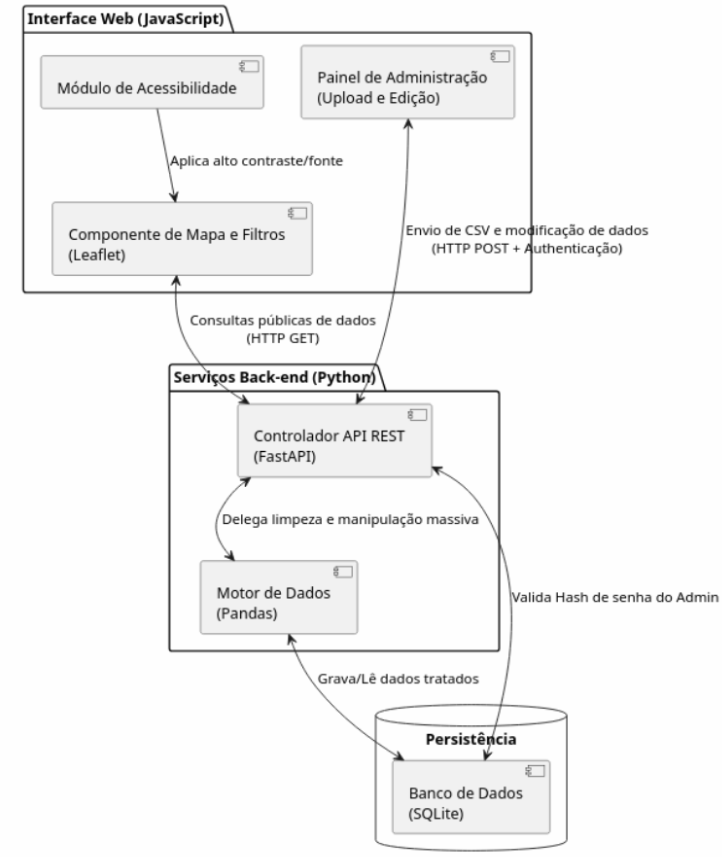
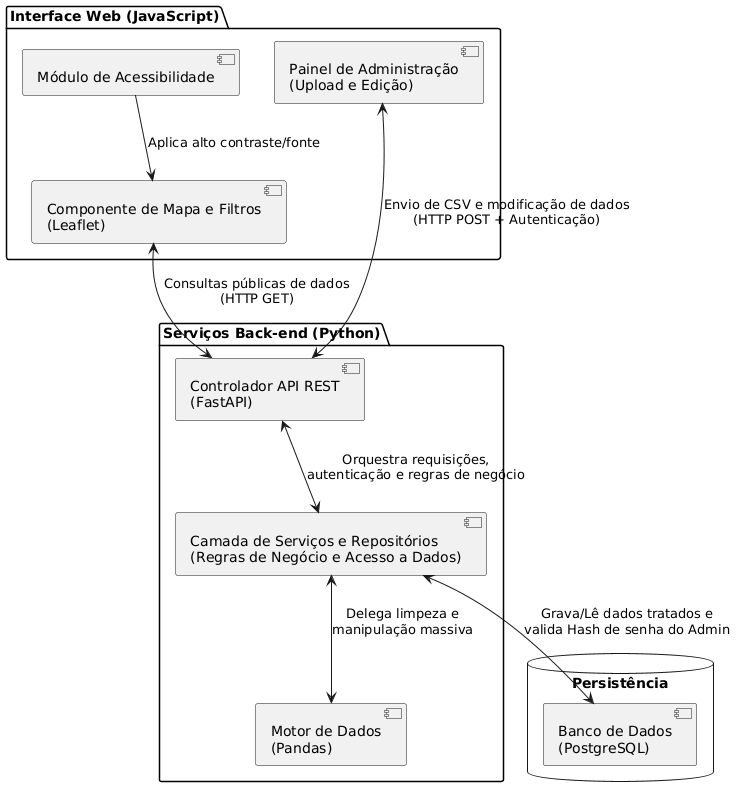
docs: atualizar markdown do documento de arquitetura (mudança de banco de dados).

Changed region(s): [[0.0, 0.0, 1.0, 1.0], [0.3352, 0.8696, 0.3657, 0.9006]]

diff --git a/docs/documentos/arquitetura/visoes.md b/docs/documentos/arquitetura/visoes.md
@@ -26,7 +26,7 @@ Esse fluxo operacional é detalhado na **Figura 3**, que apresenta o diagrama de
 
 **Figura 3 — Diagrama de Atividades: Painel do Administrador**
 
-<img src="../assets/atividades.png" alt="Diagrama de Atividades" style="max-width: 16cm; width: 100%; border: 1px solid #ddd; border-radius: 4px;" />
+![Diagrama de Atividades](assets/atividades.png)
 
 *Fonte: Elaborado por Fabiana Reis (2026).*
 
@@ -62,38 +62,43 @@ A **Tabela 4** sintetiza as responsabilidades e a camada de cada módulo na arqu
 
 #### `src/frontend` — JavaScript e Leaflet
 
-Concentra a interface gráfica manipulada pelo usuário. Organiza o código separando as páginas (`pages/`), os componentes reutilizáveis de mapa e filtros (`components/`), os recursos de acessibilidade de fonte e alto contraste (`accessibility/`), o cliente HTTP de envio de requisições (`api_client/`) e os estilos e recursos estáticos (`assets/`). Dessa forma, a interface pode evoluir esteticamente sem impactar as regras da aplicação.
+Concentra a camada de apresentação e todos os elementos de interface com os quais o usuário interage diretamente. Organiza as páginas HTML na raiz, separando-as das folhas de estilo (`css/`), dos scripts de comportamento e comunicação com a API (`js/`) e dos recursos gráficos e geográficos em (`assets/`). Dessa forma, a interface pode evoluir sem afetar as regras de negócio.
 
 #### `src/api` — FastAPI
 
-Constitui o ponto de entrada do Back-end, recebendo as requisições HTTP do cliente e devolvendo respostas estruturadas. Cada rota atende a uma responsabilidade específica: consulta de indicadores (`indicators.py`), upload de arquivos pelo administrador (`admin.py`) e autenticação (`auth.py`). Os esquemas do Pydantic em `schemas/` formalizam os contratos de dados na borda do sistema, assegurando que apenas requisições válidas atinjam a lógica interna.
+É a fronteira do back-end: recebe as requisições do navegador e devolve as respostas. Cada rota tem uma responsabilidade: consultas de indicadores , upload de CSV pela administração e login. O módulo `schemas.py` define os contratos de entrada e saída, de modo que a validação do formato fica na borda do sistema e a lógica interna não depende dela.
 
 #### `src/services`
 
-Posiciona-se como camada intermediária entre as rotas HTTP e o tratamento de dados. O módulo `indicators.py` coordena as consultas e os filtros temáticos, enquanto `updates.py` gerencia o fluxo de atualização da base de dados. Com isso, os endpoints HTTP atuam como controladores leves, permitindo testar e manter a lógica de negócio independentemente do framework web.
+Atua como camada intermediária entre as rotas da API e o módulo de tratamento de dados. O módulo `indicador_service.py` define duas classes principais:
+- IndicadorService, responsável por coordenar as consultas e os filtros por estado e pelas dimensões do IDH e do IDHM;
+- ImportacaoService, encarregada de coordenar a atualização da base de dados. Dessa forma, as rotas restringem-se a delegar as requisições, permitindo que as regras de negócio sejam alteradas ou testadas de maneira independente do protocolo HTTP.
 
 #### `src/data` — Pandas
 
-Responsável pelo ciclo de vida e qualidade dos dados dos indicadores socioeconômicos:
+Concentra o ciclo de ingestão, validação, transformação, mapeamento e carga inicial dos indicadores socioeconômicos, estruturado em três arquivos principais: 
+- `processamento_csv.py`: responsável por realizar a leitura dos arquivos CSV, normalizar os identificadores das Unidades da Federação, reestruturar as colunas anuais em registros tabulares e descartar valores fora do intervalo válido; 
+- `mapeamento_indicadores.py`: encarregado de adequar o DataFrame tratado ao esquema lógico exigido pela camada de persistência, incorporando metadados como unidade de medida e fonte; 
+- `importar_csv.py`: que orquestra o processamento em lote das bases brutas, verifica a existência prévia de registros para evitar duplicações e aciona a gravação dos dados consolidados no PostgreSQL.
 
-- `ingestion.py`: realiza a leitura dos arquivos brutos em formato CSV;
-- `validation.py`: verifica o esquema tabular, tipos e restrições de nulidade;
-- `processing.py`: executa a higienização, normalização e cálculo de médias;
-- `storage.py`: gerencia as coleções de indicadores consolidados.
-
-Isolar o tratamento em um módulo especializado assegura que apenas dados íntegros e consistentes sejam disponibilizados para exibição.
+Isolar esse fluxo assegura a qualidade e a padronização das informações antes do armazenamento, impedindo que dados inválidos cheguem ao dashboard.
 
 #### `src/auth`
 
-Centraliza a segurança e o controle de acesso à área administrativa:
+É responsável pela proteção da área administrativa e pelo controle de acesso às operações restritas do sistema:
 
-- `authentication.py`: verifica a autenticidade do usuário no processo de login;
-- `permissions.py`: valida autorizações para execução de operações administrativas restritas;
-- `password_hash.py`: executa a geração e verificação de hashes de senhas via `bcrypt`.
+- `security.py` define a classe PasswordHasher, encarregada de aplicar algoritmos de hash criptográfico às senhas antes de seu armazenamento e de validar as credenciais submetidas durante o processo de autenticação (login).
 
 #### `src/database`
 
-Encapsula o acesso ao banco de dados SQLite. O módulo `connection.py` gerencia a conexão com o arquivo de banco de dados e as operações transacionais, enquanto os repositórios (`admin_repository.py` e `indicator_repository.py`) executam as instruções SQL para persistir e recuperar tanto as credenciais administrativas quanto a totalidade dos registros de indicadores socioeconômicos tratados. Dessa forma, nenhuma regra de persistência vaza para as camadas de apresentação ou serviços.
+Encapsula a conexão em rede e as operações de persistência no banco de dados relacional, centralizando tanto o armazenamento dos indicadores socioeconômicos consolidados quanto das credenciais administrativas. O módulo está estruturado em três arquivos principais: 
+
+- `database.py`: responsável por gerenciar o ciclo de vida das conexões com o PostgreSQL, além de inicializar o esquema relacional das tabelas indicadores e administradores;
+- `admin_repository.py`: que define a classe AdminRepository, encarregada de consultar e persistir os usuários administradores e suas senhas protegidas por hash;
+- `indicador_repository.py`: que define a classe IndicadorRepository, responsável por executar consultas filtradas e operações em lote de inserção e atualização dos indicadores tratados. 
+
+Isolar o acesso aos dados nesse pacote impede que as demais camadas dependam diretamente do Sistema Gerenciador de Banco de Dados ou de instruções SQL, permitindo que uma eventual substituição da tecnologia de persistência ocorra sem impactar as regras de negócio ou a camada de apresentação.
+
 
 ### 2.5.2.2 Comunicação entre os módulos
 
@@ -113,7 +118,7 @@ A **Tabela 5** detalha as formas de comunicação e as interfaces utilizadas ent
 |---|---|---|
 | `frontend → api` | Requisições HTTP feitas por `api_client/`, com dados estruturados em JSON | Rotas REST de consulta de indicadores e login |
 | `frontend → api` (upload) | Envio de arquivo CSV codificado em `multipart/form-data` | Rota REST de upload em `routes/admin.py` |
-| `api → services` | Chamadas diretas de funções e métodos Python | Módulos `indicators.py` e `updates.py` |
+| `api → services` | Chamadas diretas de funções e métodos Python | Módulo `indicator_service.py`|
 | `api → auth` | Chamadas diretas de funções e métodos Python | Funções de validação de token e credenciais |
 | `services → data` | Chamadas diretas de funções e métodos Python | Módulos de ingestão, validação e higienização |
 | `auth → database` | Chamadas de funções do repositório de administradores | Módulo `admin_repository.py` |

diff --git a/docs/documentos/arquitetura/representacao-arquitetural.md b/docs/documentos/arquitetura/representacao-arquitetural.md
@@ -4,7 +4,7 @@
 
 O Brasil Hub adota o estilo arquitetural Cliente-Servidor em Camadas (*Three-Tier Architecture*), estruturado em três níveis lógicos fundamentais: apresentação, aplicação e persistência.
 
-A camada de apresentação corresponde ao Front-end executado no navegador do usuário; a camada de aplicação corresponde ao Back-end desenvolvido em Python utilizando a API RESTful implementada com o framework FastAPI; e a camada de persistência corresponde ao sistema gerenciador de banco de dados relacional.
+A camada de apresentação corresponde ao Front-end executado no navegador do usuário; a camada de aplicação corresponde ao Back-end desenvolvido em Python utilizando a API RESTful implementada com o framework FastAPI; e a camada de persistência corresponde ao banco de dados relacional PostgreSQL.
 
 A separação estrita entre essas camadas tem como objetivo principal reduzir o acoplamento entre a interface de usuário, as regras de negócio, a validação de dados e os mecanismos de armazenamento físico, promovendo modularidade, manutenibilidade e testabilidade independente dos componentes (BASS; CLEMENTS; KAZMAN, 2021; SOMMERVILLE, 2018).
 
@@ -14,14 +14,14 @@ Por definição arquitetural, a camada de apresentação não possui qualquer ca
 
 ## 2.2 Justificativa da escolha
 
-A seleção da arquitetura Cliente-Servidor em Camadas decorre diretamente dos requisitos e restrições estabelecidos no Documento de Visão e Projeto (GRUPO DIJKSTRA, 2026):
+A seleção da arquitetura Cliente-Servidor em Camadas decorre diretamente dos requisitos e restrições estabelecidos no Documento de Visão e do Projeto (GRUPO DIJKSTRA, 2026):
 
 1. **Atendimento ao Desempenho (Requisito B-05):** O requisito B-05 estipula que as respostas às consultas de indicadores socioeconômicos devem ocorrer em até 3 segundos. A dissociação entre cliente e servidor viabiliza o emprego de Python e Pandas na camada de aplicação para execução de operações vetorizadas em memória e agregação de dados tabulares com alta performance, enquanto o FastAPI gerencia requisições assíncronas concorrentes de baixa latência, retornando exclusivamente cargas úteis JSON otimizadas para o cliente.
 2. **Segurança e Validação no Servidor (Requisitos B-04 e B-09):** O requisito B-04 exige a ingestão de arquivos CSV governamentais com garantia estrita de integridade estrutural, e o requisito B-09 impõe que credenciais administrativas nunca circulem ou residam desprotegidas. Manter a lógica de validação, parsing com Pandas e hashing de senhas isoladas na camada de aplicação impede que código malicioso ou arquivos corrompidos afetem diretamente o armazenamento, assegurando que o Front-end permaneça como uma casca de visualização sem privilégios de persistência.
 3. **Compatibilidade Multiplataforma e Responsividade (Requisito B-08):** O requisito B-08 estabelece suporte pleno a dispositivos a partir de 360 pixels de largura e navegadores modernos (Chrome, Firefox, Edge). O desacoplamento permite que a interface cliente seja construída com tecnologias web puras (HTML5, CSS3, JavaScript e Leaflet), operando de maneira leve e nativa no motor de renderização do cliente sem a sobrecarga de renderização server-side, garantindo fluidez e rápida resposta visual em telas reduzidas.
 4. **Alinhamento com a Estrutura da Equipe:** A segregação em camadas viabiliza o desenvolvimento paralelo entre as duplas de trabalho da equipe Dijkstra (frente de interface e frente de dados/API), minimizando dependências de código e conflitos de integração durante as Sprints de desenvolvimento.
 
-A camada de persistência utiliza o SQLite, centralizando o armazenamento estruturado dos indicadores socioeconômicos e das credenciais administrativas. A escolha do SQLite fundamenta-se na sua simplicidade arquitetural, baixo consumo de recursos, portabilidade em arquivo único e perfeita integração com o ecossistema Python, permitindo desenvolvimento e testes ágeis sem a necessidade de gerenciamento de um serviço externo de banco de dados.
+A camada de persistência utiliza o PostgreSQL, centralizando o armazenamento relacional estruturado dos indicadores socioeconômicos e das credenciais administrativas. A escolha do PostgreSQL fundamenta-se na necessidade de persistência durável em rede, controle de concorrência e integridade transacional, garantindo que as atualizações efetuadas pelos administradores permaneçam salvas de forma consistente entre as execuções serverless da API na Vercel, além de possuir integração nativa e madura com o ecossistema Python.
 
 ## 2.3 Detalhamento
 
@@ -64,7 +64,7 @@ Os módulos e componentes que constituem a arquitetura do Brasil Hub, bem como s
 | Serviço de Atualização | Python / Pandas | Orquestração do fluxo de ingestão e atualização da base | Arquivo CSV do administrador | Relatório de validação e confirmação de persistência |
 | Módulo de Autenticação | Python / bcrypt | Verificação de credenciais e emissão de tokens de autorização | Usuário e senha em texto simples | Token de sessão ou recusa de acesso |
 | Processador de Dados | Pandas | Leitura, validação estrutural, limpeza e padronização | Arquivo CSV bruto / DataFrame | DataFrame sanitizado e validado |
-| Banco de Dados | SQLite | Persistência estruturada de indicadores e credenciais | Comandos e consultas SQL estruturadas | Conjuntos de registros persistidos |
+| Banco de Dados | PostgreSQL | Persistência estruturada de indicadores e credenciais | Comandos e consultas SQL estruturadas | Conjuntos de registros persistidos |
 
 *Fonte: Elaborado por Josef Wojtyla (2026).*
 
@@ -145,7 +145,7 @@ A API intercepta a requisição, valida o token de autorização, encaminha o ar
 
 ### 2.3.2 Modelo de persistência
 
-O modelo de persistência do Brasil Hub utiliza o banco de dados SQLite para armazenar de forma íntegra e estruturada os dados socioeconômicos tratados e as credenciais de autenticação administrativa.
+O modelo de persistência do Brasil Hub utiliza o banco de dados PostgreSQL para armazenar de forma íntegra e estruturada os dados socioeconômicos tratados e as credenciais de autenticação administrativa.
 
 O acesso ao banco de dados é estritamente encapsulado pelo módulo de repositório (`src/database`), isolando a camada de aplicação de especificidades dialetais de SQL e facilitando a realização de testes com bancos em memória ou simulações via mocks.
 
@@ -175,7 +175,7 @@ Em hipótese alguma a senha do administrador em texto simples é gravada em banc
 
 ## 2.4 Metas e restrições arquiteturais
 
-As metas e restrições técnicas do Brasil Hub derivam dos requisitos funcionais e não funcionais estabelecidos no Documento de Visão e Projeto (GRUPO DIJKSTRA, 2026), visando assegurar estabilidade, segurança e manutenibilidade:
+As metas e restrições técnicas do Brasil Hub derivam dos requisitos funcionais e não funcionais estabelecidos no Documento de Visão e do Projeto (GRUPO DIJKSTRA, 2026), visando assegurar desempenho, manutenibilidade, segurança, compatibilidade e consistência estrutural do sistema:
 
 1. **Comunicação estrita por API REST:** A troca de dados entre Front-end e Back-end ocorre exclusivamente via requisições HTTP/HTTPS padronizadas conforme o modelo REST (FIELDING, 2000). Operações de recuperação de indicadores usam o método `GET`, enquanto operações autenticadas de submissão e atualização usam o método `POST`.
 2. **Formato dos Dados:** As saídas estruturadas da API utilizam exclusivamente payloads em formato JSON, com codificação de caracteres em UTF-8. O tráfego de arquivos brutos de indicadores utiliza `multipart/form-data`.

diff --git a/docs/documentos/arquitetura/introducao.md b/docs/documentos/arquitetura/introducao.md
@@ -2,7 +2,7 @@
 
 ## 1.1 Propósito
 
-Este documento descreve a arquitetura do sistema Brasil Hub, desenvolvido na disciplina de Métodos de Desenvolvimento de Software (MDS), no segundo semestre de 2026, tendo como base os direcionadores definidos no Documento de Visão e Projeto v1.1 (GRUPO DIJKSTRA, 2026). Seu propósito é apresentar, de forma técnica e estruturada, as principais decisões arquiteturais adotadas pela equipe, os componentes que constituem o sistema, suas responsabilidades, as interfaces de comunicação e a infraestrutura necessária para sua execução.
+Este documento descreve a arquitetura do sistema Brasil Hub, desenvolvido na disciplina de Métodos de Desenvolvimento de Software (MDS), no segundo semestre de 2026, tendo como base os direcionadores definidos no Documento de Visão e do Projeto (GRUPO DIJKSTRA, 2026). Seu propósito é apresentar, de forma técnica e estruturada, as principais decisões arquiteturais adotadas pela equipe, os componentes que constituem o sistema, suas responsabilidades, as interfaces de comunicação e a infraestrutura necessária para sua execução.
 
 O documento tem como finalidade orientar o desenvolvimento, a integração e a manutenção do software, fornecendo uma referência comum para os integrantes da equipe, bem como para professores, monitores e demais interessados na solução.
 
@@ -10,7 +10,7 @@ São apresentados o estilo arquitetural adotado, a organização lógica dos mó
 
 ## 1.2 Escopo
 
-O escopo detalhado do produto está definido no Documento de Visão e Projeto v1.1 (GRUPO DIJKSTRA, 2026), em especial nas Tabelas 10 a 13, que estabelecem o backlog de requisitos funcionais e não funcionais priorizados pelo método MoSCoW. Em termos arquiteturais, o Brasil Hub compreende uma plataforma web interativa para centralização, tratamento e visualização de dados socioeconômicos brasileiros, com foco em informações estaduais relacionadas às dimensões de renda, educação e longevidade.
+O escopo detalhado do produto está definido no Documento de Visão e do Projeto (GRUPO DIJKSTRA, 2026), em especial nas Tabelas 10 a 13, que estabelecem o backlog de requisitos funcionais e não funcionais priorizados pelo método MoSCoW. Em termos arquiteturais, o Brasil Hub compreende uma plataforma web interativa para centralização, tratamento e visualização de dados socioeconômicos brasileiros, com foco em informações estaduais relacionadas às dimensões de renda, educação e longevidade.
 
 O sistema é composto por uma interface web acessível a visitantes e administradores, uma API responsável pelo processamento das requisições e regras da aplicação, módulos destinados à validação e ao tratamento dos dados e uma camada de persistência estruturada.
 

diff --git a/docs/documentos/arquitetura/implantacao-restricoes.md b/docs/documentos/arquitetura/implantacao-restricoes.md
@@ -2,7 +2,7 @@
 
 O Brasil Hub é implantado em uma infraestrutura de computação em nuvem utilizando a Vercel (VERCEL, 2026) como plataforma de hospedagem da aplicação web e da API. A Vercel atua na disponibilização do Front-end (arquivos estáticos servidos via rede de distribuição de conteúdo — CDN) e na execução do Back-end Python por meio de Functions, processando sob demanda as requisições direcionadas à API REST.
 
-A camada de persistência utiliza o banco de dados relacional **SQLite**, armazenando em arquivo estruturado os dados socioeconômicos tratados e as credenciais administrativas protegidas por hash. A escolha do SQLite fundamenta-se na sua simplicidade operacional, dispensa de provisionamento de servidor externo de banco de dados e facilidade de portabilidade entre os membros da equipe.
+A camada de persistência em produção utiliza o banco de dados relacional PostgreSQL, hospedado como um serviço gerenciado em nuvem (DBaaS) independente da infraestrutura efêmera da Vercel. O Back-end em Python comunica-se diretamente com o servidor PostgreSQL via rede (TCP/IP), garantindo armazenamento durável e transacional para os dados socioeconômicos tratados e as credenciais administrativas protegidas por hash. Dessa forma, as atualizações realizadas pelo Administrador permanecem persistidas permanentemente entre as execuções serverless das Functions.
 
 Durante o ciclo de desenvolvimento, homologação e execução dos testes automatizados, o ambiente do projeto é padronizado por meio de contêineres Docker (DOCKER, 2026). O arquivo `docker-compose.yml` unifica a versão da imagem do Python e as dependências do FastAPI e do Pandas, assegurando que todos os membros da equipe e os executores do GitHub Actions trabalhem em ambiente idêntico, mitigando inconsistências decorrentes de variações de sistemas operacionais.
 

diff --git a/docs/documentos/arquitetura/referencias.md b/docs/documentos/arquitetura/referencias.md
@@ -20,6 +20,8 @@ OWASP. **Password Storage Cheat Sheet**. Open Web Application Security Project, 
 
 PANDAS. **pandas: Powerful Python data analysis toolkit**. PyData Development Team, 2026. Disponível em: <https://pandas.pydata.org/docs/>. Acesso em: 07 out. 2026.
 
+POSTGRESQL. **PostgreSQL 17 Documentation**. Disponível em: <https://www.postgresql.org/docs/>. Acesso em: 15 nov. 2026.
+
 SOMMERVILLE, Ian. **Engenharia de Software**. 10. ed. São Paulo: Pearson Education do Brasil, 2018.
 
 VAN ROSSUM, Guido; WARSAW, Barry; COGHLAN, Nick. **PEP 8 — Style Guide for Python Code**. Python Enhancement Proposals, 2001. Disponível em: <https://peps.python.org/pep-0008/>. Acesso em: 26 out. 2026.
